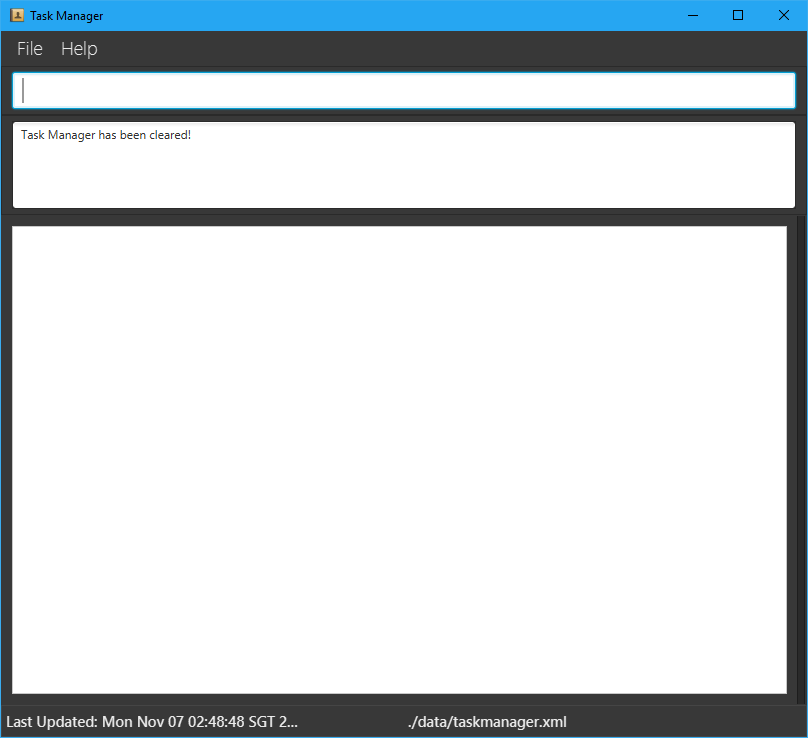
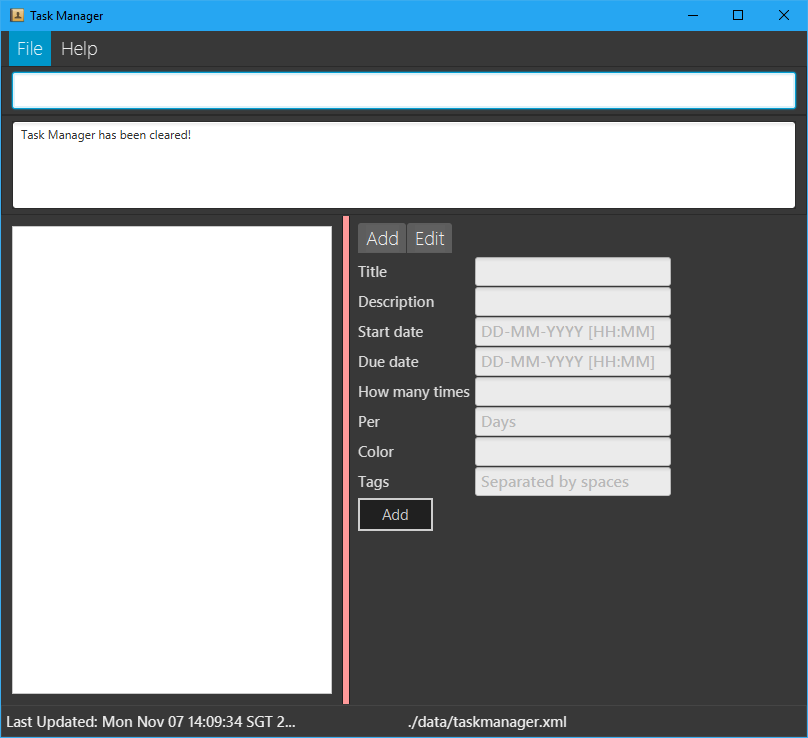
Update snapshot

diff --git a/src/main/resources/view/DarkTheme.css b/src/main/resources/view/DarkTheme.css
@@ -88,12 +88,14 @@
     -fx-border-insets: 0 10 1 0;
 }
 
+
 .table-view .column-header .label {
     -fx-font-size: 20pt;
     -fx-font-family: "Segoe UI Light";
     -fx-text-fill: white;
     -fx-alignment: center-left;
     -fx-opacity: 1;
+    
 }
 
 .table-view:focused .table-row-cell:filled:focused:selected {
@@ -102,7 +104,7 @@
 
 .split-pane:horizontal .split-pane-divider {
     -fx-border-color: transparent #1d1d1d transparent #1d1d1d;
-    -fx-background-color: transparent, derive(#1d1d1d, 10%);
+    -fx-background-color: transparent, derive(#ff0000, 100%);
 }
 
 .split-pane {
